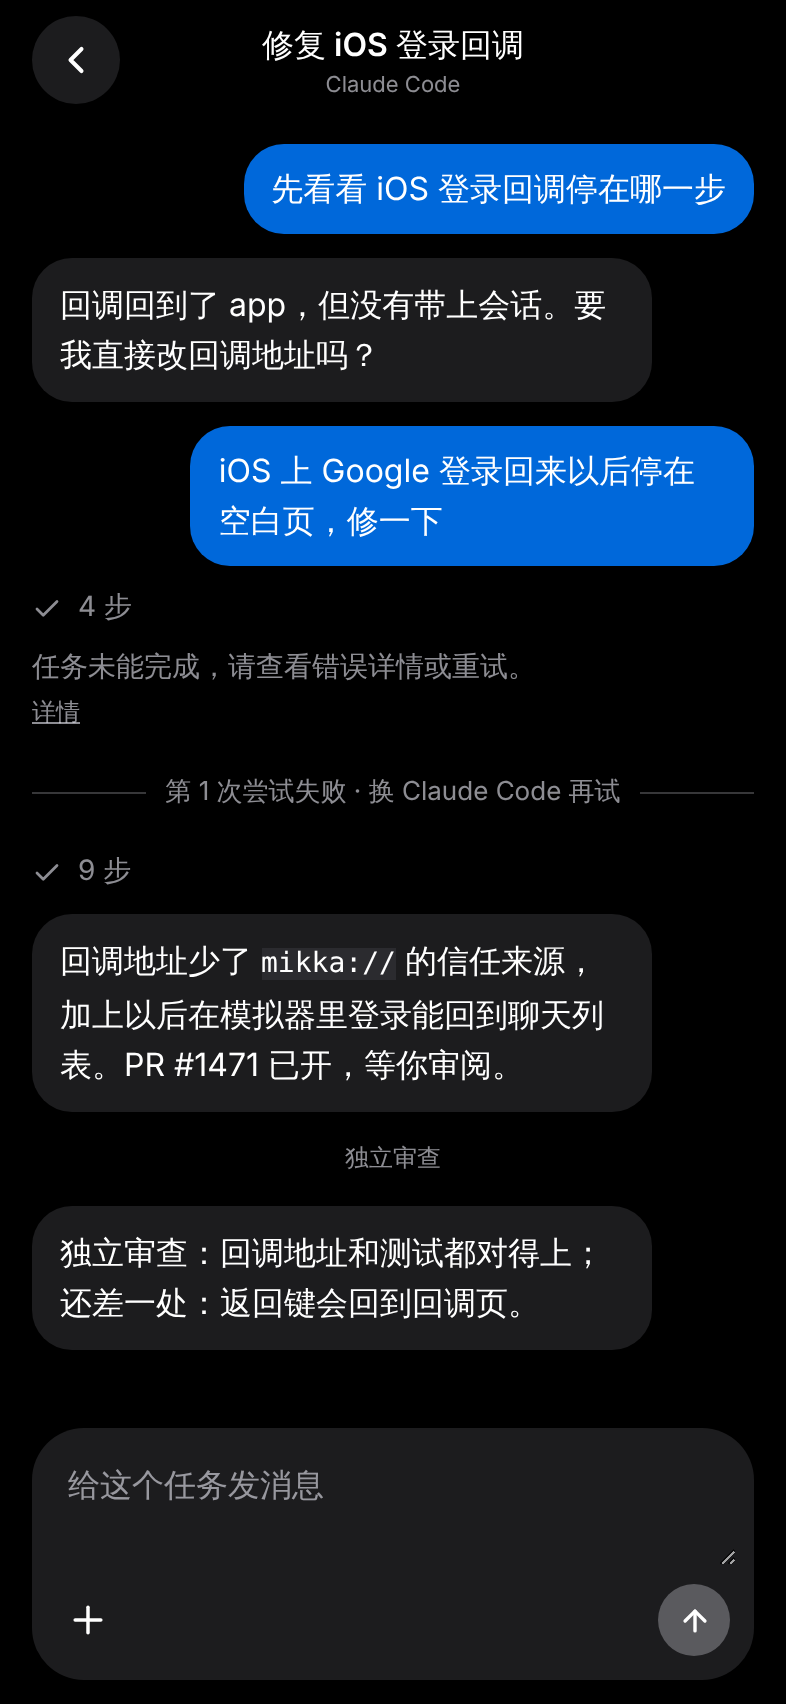
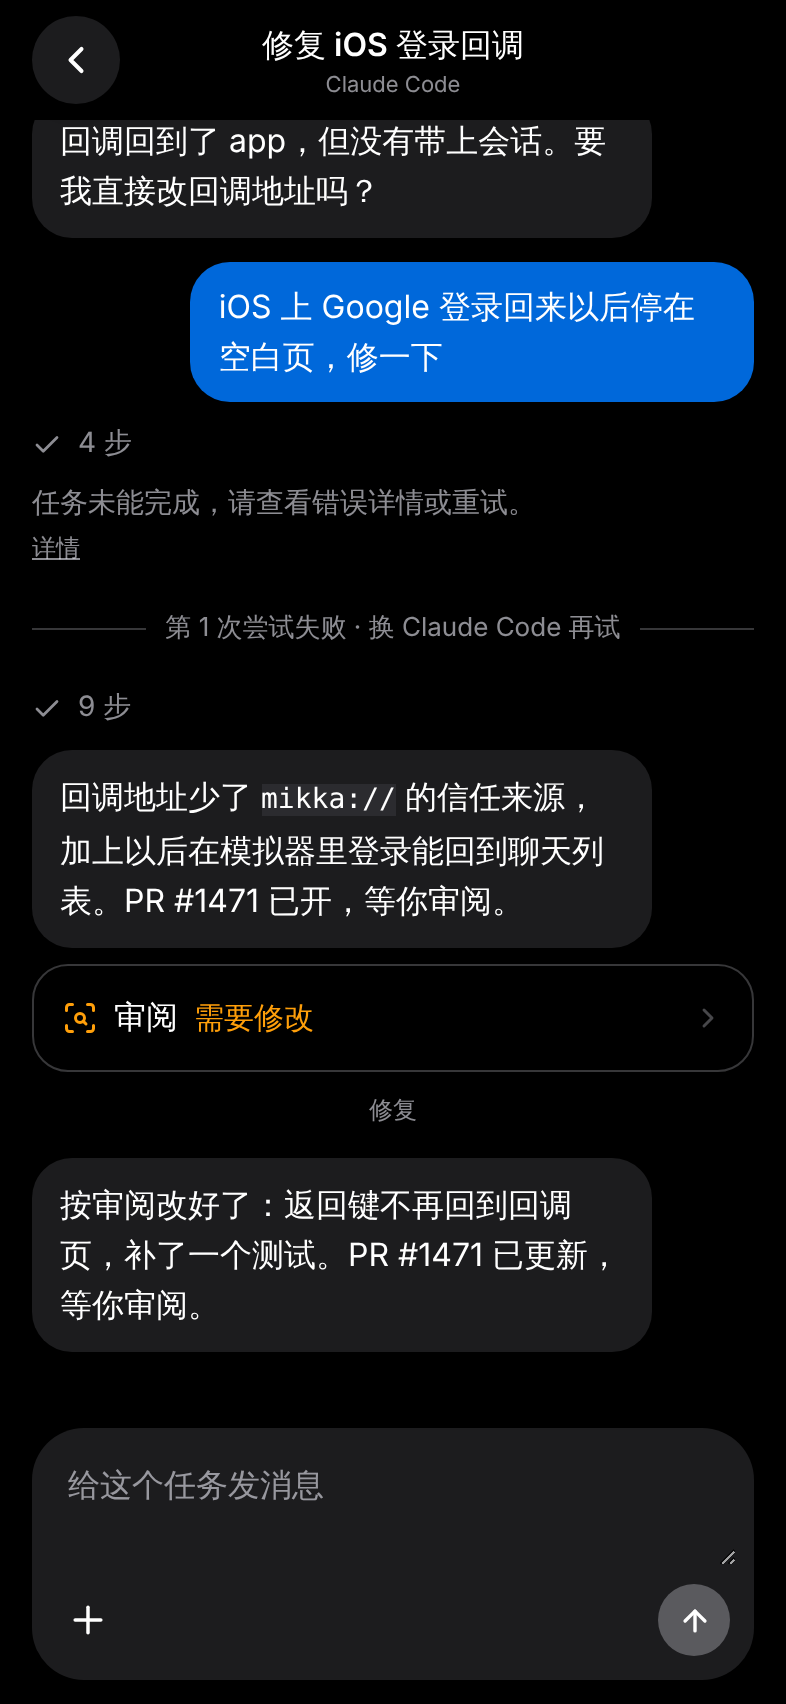
Mobile: factory flow on the task conversation (2026-11-04-2200)
Coordinator, following the existing factory-flow decision:
- No 「验证」 marker: verification belongs to 实现. 「修复」 stays.
- The review run is one 审阅 result card (通过 / 需要修改 / 需要你判断)
  that opens to the reviewer's transcript, instead of its full text.
- The top of the conversation shows the task's one stage and what it
  needs from you: 「交给你 · 需要你：PR 待审」.

Stage and verdict come from an optional `task.flow` (the public flow
projection the web reads from /api/factory/tasks/:id/flow); the mobile
task read does not send it yet, so without it there is no stage line and
no verdict word. Tests and the tasks screenshot fixture follow.

Claude-Session: https://claude.ai/code/session_01XDndLScfAwEtstMEvukXBZ

diff --git a/apps/mobile/features/tasks/screens/task-conversation-screen.tsx b/apps/mobile/features/tasks/screens/task-conversation-screen.tsx
@@ -1,9 +1,9 @@
-import { useCallback, useRef, useState } from 'react'
+import { useCallback, useRef, useState, type ReactNode } from 'react'
 import { Platform, Pressable, StyleSheet, View } from 'react-native'
 import { KeyboardChatScrollView } from 'react-native-keyboard-controller'
 import { useLocalSearchParams, useRouter } from 'expo-router'
 import { useSafeAreaInsets } from 'react-native-safe-area-context'
-import { Check } from 'lucide-react-native'
+import { Check, ChevronDown, ChevronRight, ScanSearch } from 'lucide-react-native'
 import { BotBubble, MyBubble } from '@/components/chat'
 import { Spinner } from '@/components/icons'
 import { Markdown } from '@/components/Markdown'
@@ -24,7 +24,8 @@ import type { TaskDetail, ThreadDetail, ThreadItem } from '@/lib/types'
 import { useLiveApi } from '@/lib/useApi'
 import { useStop } from '@/lib/useStop'
 import { colors } from '@/lib/theme'
-import { boundary, conversationSegments, currentAgent, type Attempt } from '../model/task-conversation'
+import { boundary, conversationSegments, currentAgent, reviewRun, type Attempt } from '../model/task-conversation'
+import { stageLine, verdictWord, type TaskFlow } from '../model/task-flow'
 
 type Conversation = { detail: TaskDetail; threads: Record<string, ThreadDetail> }
 
@@ -109,12 +110,18 @@ export function TaskConversationScreen() {
       <KeyboardChatScrollView ref={scroller as never} onContentSizeChange={place} {...underBar} offset={Math.max(insets.bottom, 12) - 8} keyboardDismissMode="interactive" keyboardLiftBehavior="whenAtEnd" contentContainerStyle={styles.body}>
         {!data && !error ? <View style={styles.center}><Spinner /></View> : null}
         <ReadNotice error={error} hasData={Boolean(data)} label="对话" onRetry={reload} />
+        {/* A factory task's one stage, and what it needs from you (2026-11-04-2200); nothing without a flow. */}
+        {stageLine(data?.detail.task.flow) ? <Text style={styles.stageLine}>{stageLine(data?.detail.task.flow)}</Text> : null}
         {data && !segments.length ? <Text style={styles.empty}>还没有尝试</Text> : null}
         {segments.map((segment, index) => (
           <View key={segment.attempt.runId} style={styles.segment}
             onLayout={event => { offsets.current.set(segment.attempt.runId, event.nativeEvent.layout.y); place() }}>
             {index > 0 ? <Boundary at={boundary(data?.detail.activity ?? [], segments[index - 1]!.attempt, segment.attempt)} /> : null}
-            {segment.items.map((item, at) => <Item key={item.id} item={item} live={Boolean(live?.active) && index === segments.length - 1 && at === segment.items.length - 1} />)}
+            {reviewRun(segment.attempt)
+              ? <ReviewCard flow={data?.detail.task.flow} running={Boolean(live?.active) && index === segments.length - 1}>
+                {segment.items.map((item, at) => <Item key={item.id} item={item} live={Boolean(live?.active) && index === segments.length - 1 && at === segment.items.length - 1} />)}
+              </ReviewCard>
+              : segment.items.map((item, at) => <Item key={item.id} item={item} live={Boolean(live?.active) && index === segments.length - 1 && at === segment.items.length - 1} />)}
             {/* A failed attempt's cause stays inside it, in words, with the raw code under 详情 (2026-11-05-0330). */}
             {segment.error && !(index === segments.length - 1 && live?.active) && !segment.items.some(item => item.kind === 'error') ? <AttemptError raw={segment.error} /> : null}
           </View>
@@ -162,6 +169,29 @@ function AttemptError({ raw }: { raw: string }) {
 }
 
 /**
+ * The factory's review, run once per task (2026-11-04-2200), as one result card rather than its full text: 「审阅」
+ * and its verdict (通过 / 需要修改 / 需要你判断, from the task's flow), which opens to the reviewer's transcript.
+ */
+function ReviewCard({ flow, running, children }: { flow: TaskFlow | null | undefined; running: boolean; children: ReactNode }) {
+  const [open, setOpen] = useState(false)
+  const verdict = running ? '进行中' : verdictWord(flow)
+  const Chevron = open ? ChevronDown : ChevronRight
+  return (
+    <View style={styles.review}>
+      <Pressable accessibilityRole="button" accessibilityState={{ expanded: open }} accessibilityLabel={['审阅', verdict].filter(Boolean).join('，')}
+        onPress={() => setOpen(value => !value)} style={({ pressed }) => [styles.reviewHead, pressed && { opacity: 0.6 }]}>
+        {running ? <Spinner size={16} /> : <ScanSearch size={18} color={flow?.review?.verdict === 'passed' ? colors.success : flow?.review?.verdict ? colors.orange : colors.secondary} strokeWidth={2} />}
+        <Text style={styles.reviewTitle}>审阅</Text>
+        {verdict ? <Text style={[styles.reviewVerdict, flow?.review?.verdict === 'passed' ? { color: colors.success } : flow?.review?.verdict ? { color: colors.orange } : null]}>{verdict}</Text> : null}
+        <View style={{ flex: 1 }} />
+        <Chevron size={16} color={colors.tertiary} strokeWidth={2.2} />
+      </Pressable>
+      {open ? <View style={styles.reviewBody}>{children}</View> : null}
+    </View>
+  )
+}
+
+/**
  * Between two runs of the task's one conversation: a centred line where the task switched Agent (「换 Claude Code 继续」),
  * a small marker where a factory stage started (「独立审查」), nothing otherwise.
  */
@@ -182,6 +212,12 @@ function Divider({ text }: { text: string }) {
 }
 
 const styles = StyleSheet.create({
+  stageLine: { alignSelf: 'center', fontSize: 13, fontWeight: '600', color: colors.secondary, marginBottom: 4 },
+  review: { borderRadius: 18, borderCurve: 'continuous', borderWidth: StyleSheet.hairlineWidth, borderColor: colors.separator, paddingHorizontal: 14, paddingVertical: 4 },
+  reviewHead: { flexDirection: 'row', alignItems: 'center', gap: 8, minHeight: 44 },
+  reviewTitle: { fontSize: 16, fontWeight: '600', color: colors.text },
+  reviewVerdict: { fontSize: 15, color: colors.secondary },
+  reviewBody: { gap: 12, paddingBottom: 10 },
   stage: { alignSelf: 'center', fontSize: 12, fontWeight: '500', color: colors.secondary, paddingHorizontal: 10, paddingVertical: 3, marginVertical: 4 },
   screen: { flex: 1, backgroundColor: colors.page },
   titleBox: { alignItems: 'center', maxWidth: 260 },

diff --git a/apps/mobile/features/tasks/model/task-flow.ts b/apps/mobile/features/tasks/model/task-flow.ts
@@ -1,0 +1,24 @@
+/**
+ * A factory task's flow on the phone (decisions/2026-11-04-2200-factory-flow-like-warp.md): one stage, 分诊 → 方案 →
+ * 实现 → 审阅 → 交给你 → 完成 (or 已取消), plus an optional 「需要你」 kind; verification belongs to 实现, and 审阅 runs
+ * once with one verdict. The shape is the public flow projection (lib/factory/public-flow.ts) the web reads from
+ * /api/factory/tasks/:id/flow; the mobile task read does not send it yet (`task.flow`), and without it nothing shows.
+ */
+export type FlowStage = 'triage' | 'spec' | 'implement' | 'review' | 'handoff' | 'completed' | 'cancelled'
+export type NeedsYouKind = 'spec_review' | 'question' | 'pr_review' | 'blocked' | 'failed'
+export type ReviewVerdict = 'passed' | 'changes_requested' | 'needs_judgment'
+export type TaskFlow = { stage: FlowStage; needsYou?: { kind: NeedsYouKind; since: string } | null; review?: { verdict: ReviewVerdict | null } | null }
+
+export const STAGE_WORD: Record<FlowStage, string> = { triage: '分诊', spec: '方案', implement: '实现', review: '审阅', handoff: '交给你', completed: '完成', cancelled: '已取消' }
+export const NEEDS_YOU_WORD: Record<NeedsYouKind, string> = { spec_review: '方案待审', question: '在问你', pr_review: 'PR 待审', blocked: '阻塞', failed: '失败' }
+export const VERDICT_WORD: Record<ReviewVerdict, string> = { passed: '通过', changes_requested: '需要修改', needs_judgment: '需要你判断' }
+
+/** The line at the top of the task's conversation: 「审阅」, or 「交给你 · 需要你：PR 待审」. Null without a flow. */
+export function stageLine(flow: TaskFlow | null | undefined) {
+  if (!flow || !(flow.stage in STAGE_WORD)) return null
+  const needs = flow.needsYou && flow.needsYou.kind in NEEDS_YOU_WORD ? `需要你：${NEEDS_YOU_WORD[flow.needsYou.kind]}` : null
+  return [STAGE_WORD[flow.stage], needs].filter(Boolean).join(' · ')
+}
+
+/** 审阅's verdict in words, or null while it has none (still reviewing, or no flow from the server). */
+export const verdictWord = (flow: TaskFlow | null | undefined) => flow?.review?.verdict ? VERDICT_WORD[flow.review.verdict] ?? null : null

diff --git a/apps/mobile/features/tasks/model/task-conversation.ts b/apps/mobile/features/tasks/model/task-conversation.ts
@@ -42,14 +42,20 @@ export function agentRuns(activity: readonly TaskActivity[]): AgentRun[] {
   return runs
 }
 
-/** A factory stage's start, marked inline in the conversation; implementing is the conversation itself. */
-const STAGE_MARK: Partial<Record<NonNullable<Attempt['stage']>, string>> = { review: '独立审查', verify: '验证', fix: '修复' }
+/**
+ * A factory stage's start, marked inline in the conversation (2026-11-04-2200). Implementing is the conversation
+ * itself, and verification belongs to it, so neither is marked; 审阅 is its own result card (reviewRun), not a marker.
+ */
+const STAGE_MARK: Partial<Record<NonNullable<Attempt['stage']>, string>> = { fix: '修复' }
+
+/** The factory's review: one run per task, drawn as a 审阅 result card that opens to its transcript. */
+export const reviewRun = (attempt: Pick<Attempt, 'stage'>) => attempt.stage === 'review'
 
 /**
  * What sits between two runs of the task's conversation. 「尝试」 appears only where the Agent changed: 「换 Claude Code
  * 继续」, or 「第 1 次尝试失败 · 换 Claude Code 再试」 when the run before failed, counting Agent switches only. With the
- * same Agent nothing divides them; where a factory stage starts (`stage`, when the server sends it) a small marker
- * says which. No stage, no marker.
+ * same Agent nothing divides them; where the factory goes back to fix (`stage`, when the server sends it) a small
+ * marker says so. No stage, no marker; the review is its own card.
  */
 export type Boundary = { kind: 'switch'; text: string } | { kind: 'stage'; text: string } | null
 export function boundary(activity: readonly TaskActivity[], previous: Attempt, next: Attempt): Boundary {

diff --git a/apps/mobile/lib/types.ts b/apps/mobile/lib/types.ts
@@ -224,6 +224,8 @@ export interface TaskDetail {
     place: { kind: MachineKind; name: string } | null
     /** A code task's review summary (#1738, from #1722); absent for a non-code task or an older server. */
     review?: import('../features/review/model/contract').ReviewSummary | null
+    /** A factory task's flow: its stage, what it needs from the person, 审阅's verdict (2026-11-04-2200). Not sent yet. */
+    flow?: import('../features/tasks/model/task-flow').TaskFlow | null
   }
   activity: TaskActivity[]
   /** The channel its task and run keys arrive on. */

diff --git a/docs/design/decisions/2026-11-08-2140-task-one-conversation.md b/docs/design/decisions/2026-11-08-2140-task-one-conversation.md
@@ -6,6 +6,7 @@
 - Amends: [2026-11-07-2045](2026-11-07-2045-tasks-only-threads-inside.md) and [2026-11-07-2230](2026-11-07-2230-one-icon-per-task-state.md) on how attempts are labelled
 
 - Runs with the same Agent (follow-ups, waiting for a reply, the factory's review, verify and fix) are one continuous conversation: no 「第 N 次尝试」 divider and no 「· 再试」 between them.
-- Where a factory stage starts, a small marker says which: 「独立审查」, 「验证」, 「修复」. It comes from the run's `stage` when the server sends it; with no stage there is no marker.
+- The factory follows [2026-11-04-2200](2026-11-04-2200-factory-flow-like-warp.md): verification belongs to 实现, so it has no marker; 审阅 runs once and is one result card, 「审阅 · 通过 / 需要修改 / 需要你判断」, that opens to the reviewer's transcript instead of showing its full text; going back to fix is a small marker 「修复」. These come from the run's `stage` and the task's `flow` (stage, 需要你, 审阅's verdict) when the server sends them; without them, no marker, no verdict.
+- The top of the task's conversation shows the task's one stage and what it needs from you, 「交给你 · 需要你：PR 待审」, from the same `flow`.
 - Only a switch to another Agent (Claude Code ↔ Codex ↔ Cursor) divides the conversation: 「换 Claude Code 继续」, or 「第 1 次尝试失败 · 换 Claude Code 再试」 when the run before failed. 「第 N 次」 counts Agent switches only.
 - 活动 on the task page shows one row per Agent's stretch: 「Codex · 等你回复 · 11月5日」 with the latest run's state and date, and 「换 Claude Code」 where the task switched. A row opens the one conversation at its first run.
